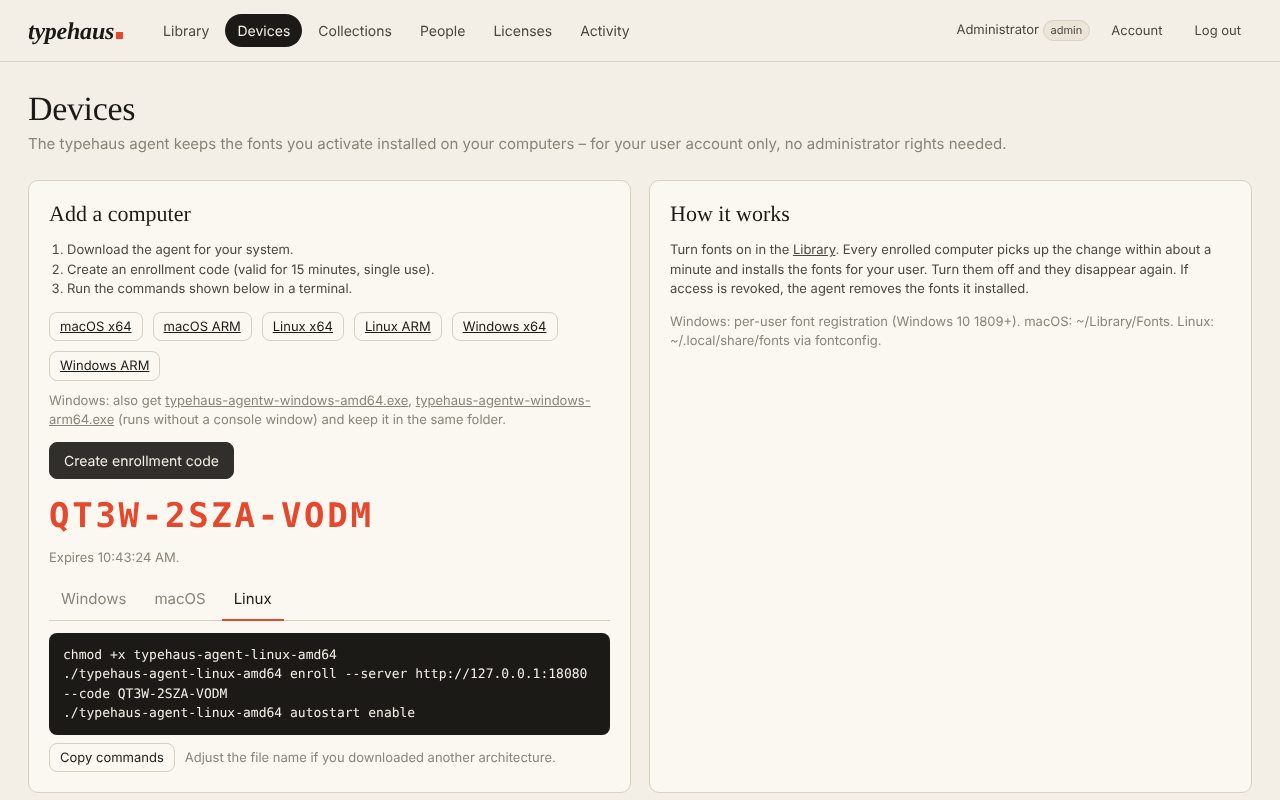
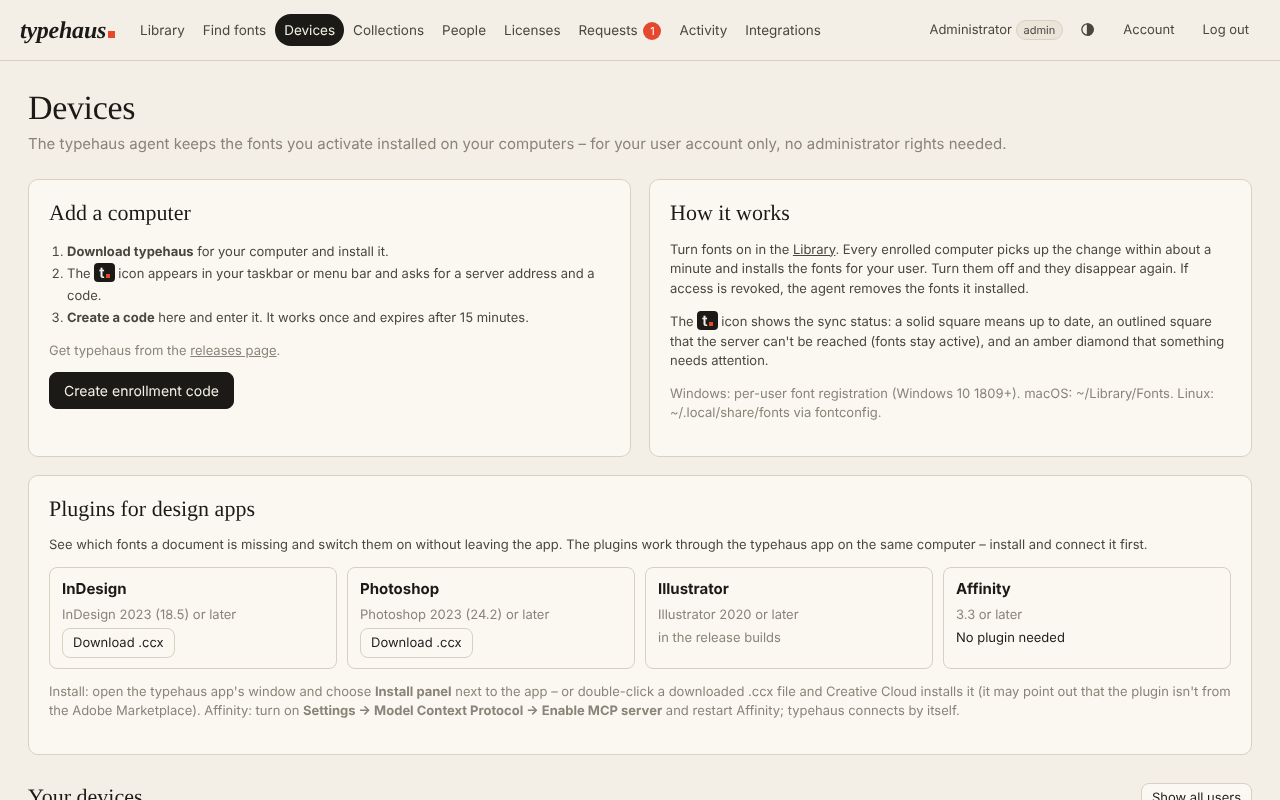
Docs for 1.0.0; header fits laptop screens
- docs/api.md: error codes, paging and filters, Idempotency-Key, rate
  limit, token rotation, catalog and identification, webhooks with
  signature verification, web kits, the app's plugin API and file bridge
- README: Find fonts, design app panels, Affinity, web fonts, webhooks;
  new settings; current screenshots in light and dark
- CHANGELOG: everything new in 1.0.0
- docker-compose.yaml and .env.example pass the new settings (and
  TYPEHAUS_INVENTORY, which was missing)
- the top navigation no longer wraps at 1100-1360 px
- the app names the panel menus as the apps do (Plugins → typehaus;
  Window → Extensions (Legacy) → typehaus)

Claude-Session: https://claude.ai/code/session_016w9CiDjLhuFq9Uidp6ChRD

diff --git a/internal/server/web/app.js b/internal/server/web/app.js
@@ -158,7 +158,7 @@ function render() {
         <a class="brand" href="#/library">typehaus<i></i></a>
         <nav class="main">${nav}</nav>
         <div class="who">
-          <span>${esc(S.me.display_name || S.me.username)}${S.me.is_admin ? ' <span class="badge">admin</span>' : ''}</span>
+          <span class="whoname" title="${esc(S.me.display_name || S.me.username)}">${esc(S.me.display_name || S.me.username)}${S.me.is_admin ? ' <span class="badge">admin</span>' : ''}</span>
           <button class="btn ghost sm theme-btn" id="theme"></button>
           <button class="btn ghost sm" id="acct">Account</button>
           <button class="btn ghost sm" id="logout">Log out</button>
@@ -1111,7 +1111,7 @@ async function renderDevices(page) {
       <div class="plist">${plugins.map((p) => `<div class="pitem"><b>${esc(p.app)}</b><span class="small muted">${PLUGIN_NEEDS[p.id] || ''}</span>
         ${p.available ? `<a class="btn sm" href="${esc(p.url)}" download>Download .${esc(p.format)}</a>` : '<span class="small muted">in the release builds</span>'}</div>`).join('')}
         <div class="pitem"><b>Affinity</b><span class="small muted">3.3 or later</span><span class="small">No plugin needed</span></div></div>
-      <p class="small muted">Install: open the typehaus app's window and choose <b>Install</b> next to the app – or double-click the downloaded file and Creative Cloud installs it
+      <p class="small muted">Install: open the typehaus app's window and choose <b>Install panel</b> next to the app – or double-click a downloaded .ccx file and Creative Cloud installs it
         (it may point out that the plugin isn't from the Adobe Marketplace). Affinity: turn on <b>Settings → Model Context Protocol → Enable MCP server</b> and restart Affinity; typehaus connects by itself.</p>
     </div>
     <div class="row" style="margin-top:28px"><h2 style="margin:0">${showAll ? 'All devices' : 'Your devices'}</h2><span class="spacer"></span>

diff --git a/internal/server/web/app.css b/internal/server/web/app.css
@@ -56,6 +56,13 @@ nav.main a {
 nav.main a:hover { background: var(--paper-2); }
 nav.main a.active { background: var(--ink); color: var(--paper); }
 .who { display: flex; align-items: center; gap: 10px; font-size: 13px; color: var(--ink-2); }
+@media (max-width: 1360px) {
+  header.top { gap: 16px; padding: 14px 20px; }
+  nav.main { gap: 0; }
+  nav.main a { padding: 6px 9px; font-size: 13.5px; }
+  .who { gap: 6px; }
+}
+@media (max-width: 1240px) { .who .whoname { display: none; } }
 main { padding: 28px; max-width: 1400px; width: 100%; margin: 0 auto; }
 h1 { font: 500 34px/1.1 var(--serif); margin: 0 0 6px; letter-spacing: -0.01em; }
 h2 { font: 500 22px/1.2 var(--serif); margin: 28px 0 12px; }

diff --git a/internal/agent/adobe.go b/internal/agent/adobe.go
@@ -115,7 +115,7 @@ func (c *Controller) InstallAdobePlugin(ctx context.Context, id string) (string,
 		}
 		c.addEvent("info", "Installed the typehaus panel for "+plug.App)
 		c.notify()
-		return fmt.Sprintf("Installed. Restart %s, then open Window → %s.", plug.App, panelMenu(plug)), nil
+		return fmt.Sprintf("Installed. Restart %s, then open %s.", plug.App, panelMenu(plug)), nil
 	}
 	if err := OpenURL(file); err != nil {
 		return "", errors.New("Creative Cloud's plugin installer wasn't found – is the Creative Cloud app installed?")
@@ -125,7 +125,7 @@ func (c *Controller) InstallAdobePlugin(ctx context.Context, id string) (string,
 
 func panelMenu(p *adobeplugins.Plugin) string {
 	if p.Format == "zxp" {
-		return "Extensions (Legacy) → typehaus"
+		return "Window → Extensions (Legacy) → typehaus"
 	}
 	return "Plugins → typehaus"
 }

diff --git a/internal/server/apicompat_test.go b/internal/server/apicompat_test.go
@@ -168,7 +168,9 @@ type apiChecker struct {
 	seen      map[string]bool
 }
 
-func (c *apiChecker) add(format string, a ...any) { c.problems = append(c.problems, fmt.Sprintf(format, a...)) }
+func (c *apiChecker) add(format string, a ...any) {
+	c.problems = append(c.problems, fmt.Sprintf(format, a...))
+}
 
 func apiBreaks(base, cur map[string]any) []string {
 	comp := func(s map[string]any) map[string]any {

diff --git a/README.md b/README.md
@@ -4,7 +4,10 @@
 
 **Self-hosted font management for teams.** A central font library with collections and group permissions, plus a small tray app that activates fonts on Windows, macOS and Linux **without admin rights**. A free, open-source alternative to Extensis Universal Type Server, FontAgent Server or FontExplorer X Server – in one Docker container.
 
-![Library](docs/library.png)
+<picture>
+  <source media="(prefers-color-scheme: dark)" srcset="docs/library-dark.png">
+  <img src="docs/library.png" alt="The typehaus library">
+</picture>
 
 ## Why
 
@@ -22,10 +25,18 @@ typehaus does the core of it, free:
 - **Revocation that works.** Remove a user from a group, disable them, or revoke a device, and the agent removes the fonts it installed.
 - **License management.** Record every license with its terms: allowed use (desktop, web, apps, e-books, video, logos), seats per user or per device, purchase and expiry dates, order reference and terms URL. Attach the EULA, invoice or certificate, and choose which documents users may open. Open-source licenses (OFL, Apache, Ubuntu Font Licence, GPL with font exception, …) are recognised from the fonts and assigned automatically; fonts from commercial foundries are suggested for review with the evidence from each file, and licenses can be set per family or per style. Choose per license whether administrators take seats. See who holds a seat, get warned before a license runs out, export a CSV for audits. Optionally **enforce** a license: no activations beyond the purchased seats, and fonts are removed from computers once the license has expired.
 - **Built for audits.** Usage is recorded daily per license, so you can show the *peak* of the last 12 months (not just today's count) in a chart, the list and the CSV. Commercial licenses don't allow direct downloads unless you say so. Installs "for all users of a computer" are flagged, because a per-user license can't count them – typehaus never puts an enforced per-user license there. For licenses that only allow use while connected, an **offline limit** removes the fonts from a computer that hasn't reached the server for a set number of days; they return once it is back. The optional **inventory scan** lists copies of licensed library fonts that were installed on computers by other means.
-- **API for other tools.** A stable, documented HTTP/JSON API (`/api/v1`, OpenAPI description included) with read-only or read & write tokens: feed font requests into your ticket system, let a document server fetch its fonts under the license rules, sync license data with procurement. See [docs/api.md](docs/api.md).
+- **Find fonts.** Search about 2,700 free families from Google Fonts, Font Squirrel and Fontsource and add them to the library in one click, complete and with their license recorded; users request them instead. **Identify a font** from an image: it goes to every identification service you have a key for (WhatFontIs, Mixfont, Aspose), and each match is checked against your library and the catalog. WhatTheFont, Identifont and others are linked.
+- **Missing fonts in design apps.** Panels for **InDesign, Photoshop and Illustrator** list the fonts an open document is missing, switch on the ones the person may use and request the others. **Affinity** needs no panel: the typehaus app talks to Affinity's built-in MCP server and switches on what open documents miss, automatically or with a click.
+- **Web fonts.** *Web kits* serve library fonts to your websites as WOFF2/WOFF from one stylesheet link – only fonts whose license includes web use, only to the domains you list, with page views counted against the license's monthly limit.
+- **API and webhooks for other tools.** A stable, documented HTTP/JSON API (`/api/v1`, OpenAPI description included) with read-only or read & write tokens: feed font requests into your ticket system, let a document server fetch its fonts under the license rules, sync license data with procurement. Signed **webhooks** report changes, expiring licenses and seat overruns as they happen. See [docs/api.md](docs/api.md).
 - **Activity log.** Uploads, activations, enrollments, sign-ins and admin changes.
 - **Single sign-on.** Optional OIDC (Authentik, Keycloak, Authelia, Zitadel, Entra ID, Google…) with group sync and admin mapping. Local accounts work out of the box.
 - **Small and boring to run.** A single Go binary with an embedded web UI. SQLite plus a content-addressed file store in one `/data` volume. Distroless image, no external services.
+
+<picture>
+  <source media="(prefers-color-scheme: dark)" srcset="docs/find-fonts-dark.png">
+  <img src="docs/find-fonts.png" alt="Find fonts: free families from Google Fonts and Font Squirrel">
+</picture>
 
 ## Quick start
 
@@ -44,7 +55,7 @@ Open the UI and sign in as `admin`. If you didn't set `TYPEHAUS_ADMIN_PASSWORD`,
 
 Then:
 
-1. **Library** → drop your fonts in.
+1. **Library** → drop your fonts in, or add free ones under **Find fonts**.
 2. **People** → create groups and users, or connect SSO.
 3. **Collections** → create a collection, choose who can see it, and add fonts to it from the Library (select → *Add to collection*).
 4. **Devices** → each user downloads typehaus, opens it, and connects with a one-time code.
@@ -102,6 +113,22 @@ The menu offers *Open typehaus* (the window: status, installed fonts with live p
 
 On Linux the tray needs a StatusNotifier host (KDE, Xfce, Cinnamon, GNOME with the *AppIndicator* extension). Without one, typehaus keeps syncing in the background, and launching it again opens the window.
 
+### Design apps
+
+**InDesign, Photoshop, Illustrator.** The typehaus window lists the Adobe apps it finds, with an **Install panel** button (Adobe's Unified Plugin Installer Agent, which comes with Creative Cloud; without it the package opens in Creative Cloud). The packages are also on the Devices page. Open the panel in the app (*Plugins → typehaus* in InDesign and Photoshop; *Window → Extensions (Legacy) → typehaus* in Illustrator, *Window → Extensions* in versions before 2024): it lists the fonts the open document is missing –
+
+- **Switch on** for fonts in the library the person may use; they are installed while the panel waits,
+- **Request** for fonts they can't use or that aren't in typehaus.
+
+The panels talk only to the typehaus app on the same computer (`127.0.0.1:47130`), which asks the server for the signed-in person, with the library's license rules. Photoshop on macOS lets plugins use https only; there the panel exchanges request files with the app in the typehaus folder instead.
+
+<picture>
+  <source media="(prefers-color-scheme: dark)" srcset="docs/devices-dark.png">
+  <img src="docs/devices.png" alt="Plugins for design apps on the Devices page">
+</picture>
+
+**Affinity** (3.3 and later) has no plugin interface but a built-in MCP server. Turn it on in Affinity (*Settings → Model Context Protocol → Enable MCP server*, then restart Affinity); the typehaus app then reads the fonts of the open documents and switches on those Affinity is missing. In the window, *Fonts missing in Affinity* chooses: switch on automatically (default), only show them, or off. Fonts the person can't use can be requested from there. `typehaus-agent affinity` checks the connection once and prints what it sees.
+
 ### Windows: fonts for all users
 
 A few older Windows applications only list fonts installed for *all* users and ignore per-user fonts. For such PCs, an administrator can additionally install the **typehaus service**, which installs the fonts of one typehaus account into `%WINDIR%\Fonts` for every user of the computer:
@@ -136,6 +163,7 @@ typehaus-agent autostart enable
 | `sync [--force]` | Sync once. `--force` re-verifies every installed file. |
 | `status` | Show the server, user, last sync and installed fonts. |
 | `inventory [--send]` | List the fonts installed outside typehaus; `--send` reports them to the server (when the server collects inventories – the app does it by itself once a day). |
+| `affinity` | Check the connection to Affinity once and list the open documents' missing fonts; changes nothing. |
 | `unenroll` | Remove all fonts typehaus installed, disable autostart, forget the enrollment. |
 | `machine enroll\|install\|status\|sync\|uninstall` | Windows only, as administrator: fonts for all users (see above). |
 
@@ -178,7 +206,11 @@ All settings are environment variables.
 | `TYPEHAUS_DOWNLOADS` | `true` | Let users download font files directly (this switch never applies to admins). Per-license setting on top, which applies to admins too unless the license is set not to count them. Downloaded fonts are outside typehaus' control: they aren't removed on revocation. |
 | `TYPEHAUS_INVENTORY` | `false` | Ask the apps to report, once a day, the fonts installed on each computer outside typehaus (names, sizes, checksums – never the files). Copies of licensed library fonts are listed on the Licenses page. Tell your users before you turn it on. |
 | `TYPEHAUS_LOCAL_LOGIN` | `true` | Set `false` to allow SSO only (requires `TYPEHAUS_OIDC_GROUPS_CLAIM` and `TYPEHAUS_OIDC_ADMIN_GROUP`) |
-| `TYPEHAUS_AGENTS_DIR` | `/app/agents` (image) | Agent binaries offered on the Devices page |
+| `TYPEHAUS_API_RATE` | `600` | API requests per token and minute |
+| `TYPEHAUS_CATALOG` | `true` | Free font catalog under *Find fonts*. Needs internet access (Fontsource, Font Squirrel, GitHub); set `false` on air-gapped servers. |
+| `TYPEHAUS_IDENTIFY` | `true` | *Identify a font* from an image |
+| `TYPEHAUS_WHATFONTIS_KEY`, `TYPEHAUS_MIXFONT_KEY`, `TYPEHAUS_ASPOSE_CLIENT_ID` / `_SECRET` | – | Keys of identification services. Admins can also enter them under *Integrations → Services*; the variables take precedence. Uploaded images are sent to these services. |
+| `TYPEHAUS_AGENTS_DIR` | `/app/agents` (image) | Agent binaries and app plugins offered on the Devices page |
 
 ### Single sign-on (OIDC)
 
@@ -197,13 +229,13 @@ Redirect URI: `https://fonts.example.com/auth/oidc/callback`. The login uses the
 
 ## API
 
-typehaus has a stable HTTP/JSON API under `/api/v1` for other tools. An administrator creates a token under **API → New token** (read, or read & write), and the tool sends it as `Authorization: Bearer thk_…`:
+typehaus has a stable HTTP/JSON API under `/api/v1` for other tools. An administrator creates a token under **Integrations → API tokens** (read, or read & write), and the tool sends it as `Authorization: Bearer thk_…`:
 
 ```sh
 curl -H "Authorization: Bearer thk_…" https://fonts.example.com/api/v1/licenses
 ```
 
-The server describes every endpoint at `/api/v1/openapi.json` (OpenAPI 3.1). Within version 1 the API changes only compatibly. Details and examples: [docs/api.md](docs/api.md).
+The server describes every endpoint at `/api/v1/openapi.json` (OpenAPI 3.1). Within version 1 the API changes only compatibly; a test against the published contract enforces it. **Webhooks** (*Integrations → Webhooks*) send signed events to your URL. Details and examples: [docs/api.md](docs/api.md).
 
 ## Backups
 
@@ -223,12 +255,12 @@ Found a vulnerability? Please open a private security advisory on GitHub rather 
 
 typehaus covers the core workflow: central library, permissions, per-user activation, revocation and license visibility. Not included (yet):
 
-- Auto-activation plugins for Adobe InDesign / Illustrator / Photoshop, Affinity, QuarkXPress (activating missing fonts when a document opens)
+- Plugins for QuarkXPress, CorelDRAW and Office (InDesign, Photoshop, Illustrator and Affinity are covered)
 - InDesign Server / prepress integrations
 - Font corruption reports (fonts installed outside typehaus are found by the optional inventory scan, but not repaired or removed)
 - Activating and browsing fonts directly from the tray app (today the library lives in the web UI)
 
-Contributions are very welcome, especially app plugins.
+Contributions are very welcome, especially plugins for more apps.
 
 ## Development
 
@@ -248,8 +280,9 @@ internal/server         HTTP API, auth, storage, embedded web UI (internal/serve
 internal/agent          sync engine, per-OS activation and autostart, controller
 internal/agent/tray     tray / menu-bar UI
 internal/agent/ui       local agent window (127.0.0.1)
+internal/adobeplugins   InDesign, Photoshop (UXP) and Illustrator (CEP) panels
 internal/brand          the typehaus mark: pixel-snapped icon renderer, ICO/SVG output
-internal/fontmeta       dependency-free OpenType name/OS2 table reader
+internal/fontmeta       dependency-free OpenType reader, WOFF/WOFF2 encoder
 internal/protocol       agent ⇄ server wire format
 ```
 

diff --git a/docs/api.md b/docs/api.md
@@ -4,11 +4,11 @@ typehaus has a stable HTTP/JSON API for connecting other tools: ticket systems, 
 
 - **Base URL:** `https://<your typehaus>/api/v1`
 - **Description:** `GET /api/v1/openapi.json` (OpenAPI 3.1, generated by the server itself – always matches the version you run). Load it into Swagger UI, Postman, Insomnia or a code generator.
-- **Stability:** everything under `/api/v1` changes only compatibly for as long as typehaus is on version 1: new endpoints and new fields may appear, existing ones keep their meaning. Ignore fields you don't know. Endpoints outside `/api/v1` belong to the web UI and the apps and may change at any time.
+- **Stability:** everything under `/api/v1` changes only compatibly for as long as typehaus is on version 1: new endpoints, fields, error codes and webhook events may appear; existing ones keep their name, type and meaning, and nothing that was optional becomes required. Ignore fields you don't know. The 1.0.0 contract is kept in the repository (`internal/server/testdata/openapi-v1.json`) and every build is tested against it. Endpoints outside `/api/v1` belong to the web UI and the apps and may change at any time.
 
 ## Tokens
 
-An administrator creates tokens in the web UI under **API → New token**. Create one per tool, so you can revoke them separately.
+An administrator creates tokens in the web UI under **Integrations → API tokens → New token**. Create one per tool, so you can revoke them separately.
 
 | Access | Can |
 |---|---|
@@ -25,6 +25,7 @@ curl -H "Authorization: Bearer thk_…" https://fonts.example.com/api/v1/license
 - A token acts for the organisation, not for a person. Changes appear in the activity log as `token:<name>`.
 - A token stops working when it is revoked, when it expires, or when the administrator who created it is disabled or loses admin rights.
 - Tokens only work on `/api/v1`. They can't sign in, change accounts, act as a computer, or manage tokens.
+- **Rotation without downtime:** *New secret* issues a new token value; the old one keeps working for a grace period you choose (up to 7 days). Responses to a superseded token carry `X-Typehaus-Token-Superseded` (until when it still works); tokens with an expiry carry `X-Typehaus-Token-Expires`. Both are RFC 3339 times. Tokens can also be renamed and given a new expiry.
 - **Font downloads follow the license rules without exception.** Fonts whose license doesn't allow direct downloads, or that is enforced and limited to seat holders, or has expired, are left out (named in the `X-Typehaus-Skipped` response header). `TYPEHAUS_DOWNLOADS=false` switches downloads off for tokens too.
 
 ## Requests and responses
@@ -32,7 +33,42 @@ curl -H "Authorization: Bearer thk_…" https://fonts.example.com/api/v1/license
 - JSON in, JSON out (`Content-Type: application/json`). Uploads use `multipart/form-data`.
 - Times are Unix seconds; dates (`purchased_on`, `expires_on`) are `YYYY-MM-DD`.
 - `PATCH` changes only the fields you send.
-- Errors: an HTTP status with `{"error": "…"}` – `400` invalid input, `401` missing, wrong, revoked or expired token, `403` not allowed (e.g. a read token writing), `404` not found, `409` refused because of a conflict (e.g. an enforced license would run out of seats).
+
+### Errors
+
+Every error is an HTTP status with a JSON body:
+
+```json
+{"error": "an enforced license has no free seats", "code": "seats_exhausted"}
+```
+
+`error` is for people and may change; `code` is stable and meant for programs. The codes are listed in `openapi.json` (schema `Error`). New codes may be added – treat an unknown one by its HTTP status.
+
+| Status | Typical codes |
+|---|---|
+| `400` | `invalid_request` |
+| `401` | `unauthorized`, `token_invalid`, `token_expired`, `token_owner_inactive` |
+| `403` | `forbidden`, `admin_only`, `read_only_token`, `tokens_not_allowed`, `license_refused`, `downloads_disabled` |
+| `404` | `not_found` (also for objects the caller can't see), `feature_disabled` |
+| `409` | `conflict`, `already_exists`, `seats_exhausted`, `limit_reached`, `idempotency_in_progress`, `not_configured` (an identification service needs a key) |
+| `413` | `payload_too_large` |
+| `422` | `idempotency_key_reused` |
+| `429` | `rate_limited` |
+| `502` | `upstream_error` (a font catalog or identification service failed or couldn't be reached) |
+
+### Lists: paging and filters
+
+List endpoints return a JSON array, one page at a time: `?limit=` (default 100, at most 1000) and `?offset=`. `X-Total-Count` holds the number of entries matching the filters across all pages, and a `Link` header points to the `next` and `prev` page. Every simple field of the entries can be used as an exact filter, e.g. `/licenses?enforced=true`, `/requests?status=open,declined` (comma-separated: any of them; text ignores case). `openapi.json` lists the filters per endpoint.
+
+The activity log (`/audit`) is newest first and pages with `?before=<id>` instead; its `Link: rel="next"` header holds the next URL.
+
+### Retries: Idempotency-Key
+
+Send `Idempotency-Key: <your unique value>` (up to 255 characters) with a `POST`, `PATCH`, `PUT` or `DELETE` to make retrying safe. A repeat with the same key and the same request returns the stored response with `Idempotent-Replayed: true` instead of running again; the same key with a different request is refused (`422 idempotency_key_reused`); while the first request is still running, a repeat gets `409 idempotency_in_progress`. Keys are kept for 24 hours, per token.
+
+### Rate limit
+
+Each token may make `TYPEHAUS_API_RATE` requests per minute (default 600, short bursts allowed). Every response carries `RateLimit-Limit`, `RateLimit-Remaining` and `RateLimit-Policy`; over the limit the answer is `429 rate_limited` with `Retry-After` in seconds. Identifications (`POST /identify`) are also limited to 30 an hour per person, because they use paid outside services.
 
 ## Endpoints
 
@@ -46,6 +82,10 @@ curl -H "Authorization: Bearer thk_…" https://fonts.example.com/api/v1/license
 | People | `GET/POST /users`, `PATCH/DELETE /users/{id}`, `GET/POST /groups`, `PATCH/DELETE /groups/{id}` |
 | Computers | `GET /devices?all=1`, `DELETE /devices/{id}` (disconnect) |
 | Compliance | `GET /inventory`, `GET /inventory.csv`, `GET /reports/usage`, `GET /audit` |
+| Free font catalog | `GET /catalog` (`?q=`, `?category=`, `?source=`), `POST /catalog/import`, `GET /lookup?name=` |
+| Identification | `POST /identify` (an image or image URL) |
+| Web fonts | `GET/POST /webkits`, `GET/PATCH/DELETE /webkits/{id}` |
+| Webhooks | `GET /webhook-events`, `GET/POST /webhooks`, `GET/PATCH/DELETE /webhooks/{id}`, `POST /webhooks/{id}/secret`, `POST /webhooks/{id}/test`, `GET /webhooks/{id}/deliveries`, `POST /webhooks/{id}/deliveries/{delivery}/redeliver` |
 
 Every endpoint with its fields is in `openapi.json`.
 
@@ -104,3 +144,67 @@ curl -s -H "$AUTH" -o licenses.csv $TH/licenses/export.csv
 curl -s -H "$AUTH" -o usage.csv $TH/licenses/history.csv
 curl -s -H "$AUTH" -o outside.csv $TH/inventory.csv
 ```
+
+**Add a free font family** to the library and a collection:
+
+```sh
+curl -s -H "$AUTH" "$TH/catalog?q=hanken" | jq '.[] | {id, family, source, importable}'
+curl -s -X POST -H "$AUTH" -H "Content-Type: application/json" -H "Idempotency-Key: $(uuidgen)" \
+  -d '{"ids": ["google:hanken-grotesk"], "collection_id": 3}' $TH/catalog/import
+```
+
+**Which font is this?** (needs at least one identification service with a key):
+
+```sh
+curl -s -H "$AUTH" -F image=@screenshot.png $TH/identify | jq '.results[] | {service, matches: [.matches[] | {name, in_library: (.library != null)}]}'
+```
+
+## Webhooks
+
+A webhook sends events to your URL as they happen: fonts added or deleted, license changes, a license expiring (30, 14, 7 and 1 days before) or over its seats, web page views over the monthly limit, font requests, copies found outside typehaus, computers, users, tokens about to expire. `GET /webhook-events` lists them all; `openapi.json` describes each payload in its `webhooks` section. Create webhooks under **Integrations → Webhooks** or with `POST /webhooks`, subscribing to event types, families such as `license.*`, or `*`.
+
+Each delivery is a `POST` with a JSON body
+
+```json
+{"id": "evt_…", "type": "license.expiring", "created_at": 1763035200, "data": {…}}
+```
+
+and the headers `X-Typehaus-Event`, `X-Typehaus-Delivery` (the same on retries – use it to drop duplicates), `X-Typehaus-Timestamp` and `X-Typehaus-Signature: v1=<hex>`. The signature is HMAC-SHA256 over `<timestamp>.<raw body>` with the webhook's secret (shown once, when created or renewed). Check it before trusting the body, and reject timestamps older than five minutes:
+
+```python
+import hmac, hashlib, time
+
+def verify(secret: str, headers, body: bytes) -> bool:
+    ts = headers["X-Typehaus-Timestamp"]
+    want = hmac.new(secret.encode(), ts.encode() + b"." + body, hashlib.sha256).hexdigest()
+    got = headers["X-Typehaus-Signature"].removeprefix("v1=")
+    return hmac.compare_digest(want, got) and abs(time.time() - int(ts)) < 300
+```
+
+Answer with any `2xx` within 10 seconds. Anything else is retried with growing pauses for about 22 hours; the deliveries of the last 30 days are listed with their answers and can be sent again. Addresses of cloud metadata services are refused as targets.
+
+## Web fonts
+
+A **web kit** (**Integrations → Web fonts**, or `/webkits`) serves library fonts to websites. The site links one stylesheet – no token, it is public:
+
+```html
+<link rel="stylesheet" href="https://fonts.example.com/webfonts/<kit token>.css">
+```
+
+It declares each font with `@font-face` (WOFF2 with a WOFF fallback, `font-display: swap`; variable fonts with their weight range), under the library's family name. Only fonts whose license includes **web** use and hasn't expired are served; the kit lists the others with the reason. Fonts are only delivered to the kit's domains (checked against `Origin` and `Referer`; `*.example.com` includes subdomains). Each stylesheet load from an allowed site counts as a page view; a license can have a monthly page-view limit, and going over it keeps sites working but flags the license and sends `license.webfont_views`.
+
+## The app's plugin API
+
+Plugins on a computer don't talk to the server: they ask the **typehaus app** on the same computer, which answers for the person signed in there, with the library's license rules. This is how the InDesign, Photoshop and Illustrator panels and the Affinity connection work, and other plugins can use it too. It is not part of `/api/v1` and may change between minor versions.
+
+- `http://127.0.0.1:47130` (`TYPEHAUS_PLUGIN_PORT` changes it), loopback only.
+- Every request needs `X-Typehaus-Plugin: 1`. Requests with a web `Origin` are refused and no CORS headers are sent, so websites can't use it.
+
+| Endpoint | Body | Answer |
+|---|---|---|
+| `GET /v1/status` | – | `{"app", "version", "connected", "server", "user"}` |
+| `POST /v1/fonts/check` | `{"fonts": [{"postscript_name"} or {"family", "style"}], "app"}` | `{"fonts": [...]}` with `status`: `active`, `available`, `refused`, `unsupported` or `not_available`, plus `reason`, `installed` and `on_system` |
+| `POST /v1/fonts/activate` | as check | switches the `available` fonts on, syncs and waits up to 45 s for the files: `{"fonts": [...], "complete"}` |
+| `POST /v1/requests` | `{"font", "purpose", "app"}` | the font request is created on the server |
+
+Where a host app allows only https (Photoshop on macOS), a plugin can use files instead: write `{"method", "path", "body"}` to `<config dir>/plugins/requests/<id>.json` and read `{"status", "body"}` from `<config dir>/plugins/answers/<id>.json`. `<id>` is 8–64 letters, digits, `-` or `_`; `<config dir>` is `~/Library/Application Support/typehaus` on macOS and `%APPDATA%\typehaus` on Windows.

diff --git a/CHANGELOG.md b/CHANGELOG.md
@@ -8,11 +8,19 @@ The section matching a release tag becomes that release's notes on GitHub.
 
 ## [1.0.0] - 2026-11-13
 
-typehaus 1.0: the API is stable – everything under `/api/v1` changes only compatibly from here on.
+typehaus 1.0: the API is stable – everything under `/api/v1` changes only compatibly from here on. New in this release: the API with webhooks, panels for InDesign, Photoshop and Illustrator, Affinity support, free fonts and font identification, and web fonts for your websites.
 
 ### Added
 - **API for other tools.** A documented HTTP/JSON API under `/api/v1` for ticket systems, document servers, brand portals and scripts: fonts (list, details, upload, download, licenses), collections, licenses with their documents, font requests, people and groups, computers, usage and inventory reports, the activity log. The server describes every endpoint at `/api/v1/openapi.json` (OpenAPI 3.1, generated from the code, so it always matches the version you run). See [docs/api.md](docs/api.md).
-- **API tokens.** Administrators create them on the new *API* page: *read* or *read & write*, with an optional expiry, shown once and stored only as a hash. Tokens act for the organisation and appear in the activity log as `token:<name>`; they only work on `/api/v1` (not for sign-in, accounts, the apps or token management) and stop working when revoked, expired, or when their creator is no longer an active administrator. Font downloads through a token follow the license rules without the administrator exception.
+- **API tokens.** Administrators create them on the new *Integrations* page (with tabs for API tokens, webhooks, web fonts and identification services): *read* or *read & write*, with an optional expiry, shown once and stored only as a hash. Tokens act for the organisation and appear in the activity log as `token:<name>`; they only work on `/api/v1` (not for sign-in, accounts, the apps or token management) and stop working when revoked, expired, or when their creator is no longer an active administrator. Font downloads through a token follow the license rules without the administrator exception.
+- **API for production use.** Errors carry a stable machine-readable `code`; lists page with `limit`/`offset`, `X-Total-Count` and `Link` headers and filter on every simple field; writes accept an `Idempotency-Key` for safe retries; each token has a rate limit (`TYPEHAUS_API_RATE`, default 600 a minute) with `RateLimit-*` headers and `Retry-After`; tokens can be rotated with a grace period, renamed and given a new expiry. The activity log records the IP address and token of every change. The 1.0.0 contract is kept in the repository and every build is tested against it.
+- **Webhooks.** Signed (HMAC-SHA256) event deliveries to your URL: fonts added or deleted, license changes, licenses expiring (30, 14, 7 and 1 days ahead) or over their seats, font requests, copies found outside typehaus, computers, users, tokens about to expire. Retries for about 22 hours, a delivery log with redelivery, secret rotation. Managed under *Integrations → Webhooks* and through the API; the events are described in `openapi.json`.
+- **Find fonts.** A new page for everyone. *Free fonts* searches about 2,700 families from Google Fonts, Font Squirrel and Fontsource (refreshed daily); administrators add a family to the library in one click – Google Fonts families complete, with their open license, Font Squirrel families with their freeware license recorded and its text attached for review – and users request them. *Identify a font* sends an image (dropped, pasted or linked) to every identification service with a key – WhatFontIs, Mixfont, Aspose – and checks each match against the library and the catalog; WhatTheFont, Identifont and others are linked. Keys are entered under *Integrations → Services* or set with `TYPEHAUS_WHATFONTIS_KEY`, `TYPEHAUS_MIXFONT_KEY`, `TYPEHAUS_ASPOSE_CLIENT_ID`/`_SECRET`. `TYPEHAUS_CATALOG=false` and `TYPEHAUS_IDENTIFY=false` switch the features off, e.g. on servers without internet access.
+- **Panels for InDesign, Photoshop and Illustrator.** A typehaus panel lists the fonts the open document is missing, switches on the ones the person may use (installed while the panel waits) and requests the others. The typehaus app installs the panels with one click (*Install panel*); they are also on the Devices page. The Illustrator extension is signed in the release build.
+- **Affinity.** The typehaus app connects to Affinity's built-in MCP server (Affinity 3.3 and later) and switches on the fonts open documents are missing – automatically, or with a click (*Fonts missing in Affinity*: switch on automatically, only show them, or off); fonts the person can't use can be requested. `typehaus-agent affinity` checks the connection.
+- **The app's plugin API.** The typehaus app answers plugins on the same computer (`127.0.0.1:47130`): which of a document's fonts are active, available, refused by a license or not in typehaus, switching them on and requesting them – for the person signed in, with the library's rules. Where a host app allows only https, plugins can exchange request and answer files instead. See [docs/api.md](docs/api.md#the-apps-plugin-api).
+- **Web fonts.** *Web kits* (*Integrations → Web fonts*) serve library fonts to websites from one stylesheet link, as WOFF2 with a WOFF fallback; variable fonts with their weight range. Only fonts whose license includes web use and hasn't expired are served, and only to the kit's domains. Page views are counted, and licenses can have a monthly page-view limit.
+- **Grid view.** The library and the free font search can show families as a grid of tiles with a pangram, besides the list; the choice is remembered per browser.
 - **Exact preview sizes.** Next to the size slider, a field takes the preview size in points (4–400 pt, half points allowed), as design apps show text at 100 %. The size now applies to the expanded styles too and is remembered per browser.
 - **Switch everything on or off.** A switch above the library list turns on or off every font in the current view – the whole library, a collection or a search result. It shows a half state when only some are on, asks before switching more than ten styles, and leaves fonts installed by the organisation alone.
 - **Waterfall.** A family's *Info* shows the sample text from 8 to 72 pt, for any of its styles.
@@ -24,6 +32,7 @@ typehaus 1.0: the API is stable – everything under `/api/v1` changes only comp
 - **Dialogs close with a click outside** (and Esc, as before). If something was typed or changed that isn't saved yet, typehaus asks: *Save changes*, *Discard changes* or *Keep editing*.
 
 ### Changed
+- Licenses gain an optional monthly limit of web page views (`web_pageviews`), and report the current month's views.
 - Fonts are counted by family (by name) instead of by style file: in the library sidebar, the collections, the switch above the list, selections and messages ("Activated Carlito (3 styles)"). Style counts still appear where they differ.
 
 ### Fixed
